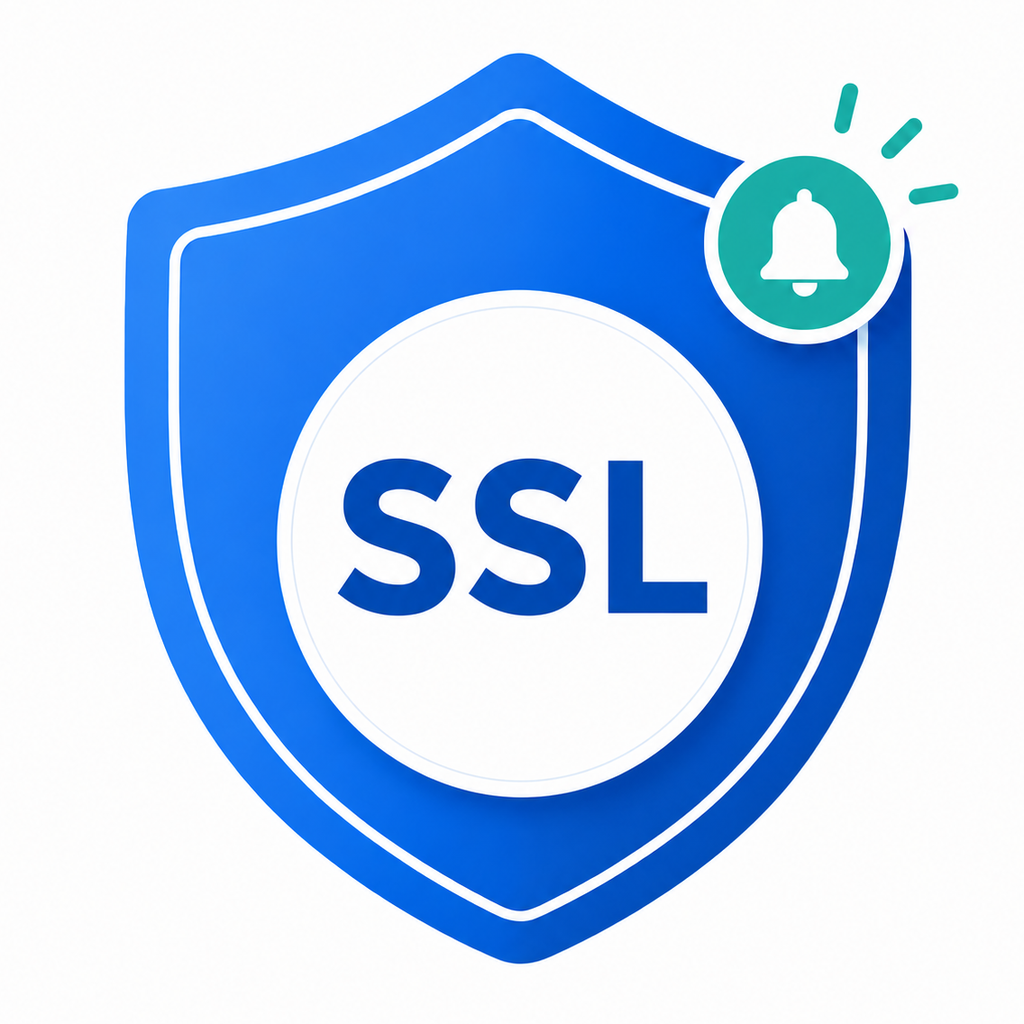
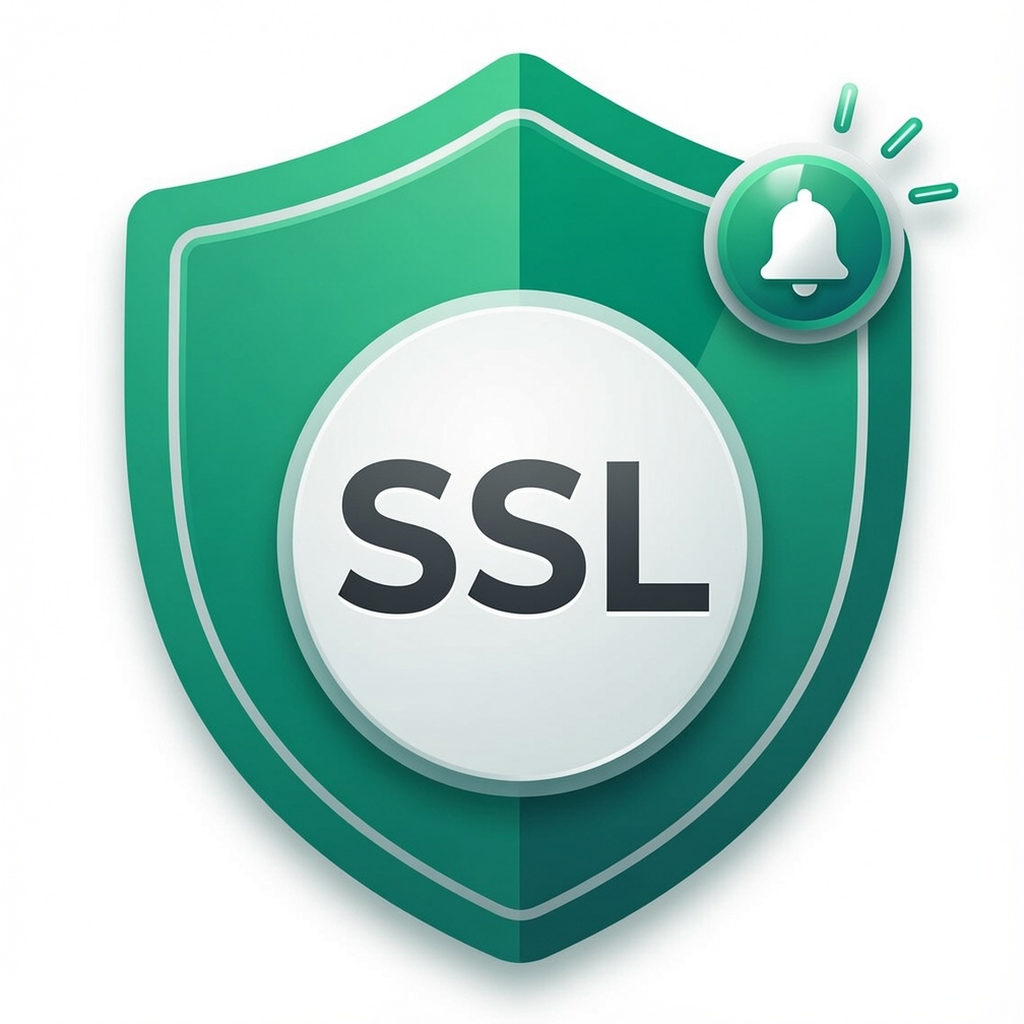
Add files via upload

diff --git a/docs/index.html b/docs/index.html
@@ -10,11 +10,11 @@
   <meta property="og:title" content="SSL Reminder - Free SSL Certificate Expiry Alerts">
   <meta property="og:description" content="Monitor up to 15 SSL certificates for free with daily cloud checks and iPhone push notifications.">
   <meta property="og:url" content="https://ssl.opshome.run/">
-  <meta property="og:image" content="https://ssl.opshome.run/assets/images/ssl-reminder-hero-transparent.png">
+  <meta property="og:image" content="https://ssl.opshome.run/assets/images/ssl-reminder-hero-0492.png">
   <meta name="twitter:card" content="summary_large_image">
   <meta name="twitter:title" content="SSL Reminder - Free SSL Certificate Expiry Alerts">
   <meta name="twitter:description" content="Daily cloud checks and iPhone push notifications for SSL certificate expiry reminders.">
-  <meta name="twitter:image" content="https://ssl.opshome.run/assets/images/ssl-reminder-hero-transparent.png">
+  <meta name="twitter:image" content="https://ssl.opshome.run/assets/images/ssl-reminder-hero-0492.png">
   <link rel="icon" href="/assets/images/app-icon.png">
   <link rel="apple-touch-icon" href="/assets/images/app-icon.png">
   <link rel="stylesheet" href="/assets/css/styles.css">
@@ -59,7 +59,7 @@
           <p class="hero-line">Simple. Private. Reliable.<span>Your SSL certificates, always under control.</span></p>
         </div>
         <figure class="hero-visual">
-          <img src="/assets/images/ssl-reminder-hero-transparent.png" width="760" height="1498" alt="SSL Reminder iPhone app showing certificate health and expiry status">
+          <img src="/assets/images/ssl-reminder-hero-0492.png" width="760" height="1498" alt="SSL Reminder iPhone app showing certificate health and expiry status">
         </figure>
       </div>
     </section>

diff --git a/docs/about/index.html b/docs/about/index.html
@@ -10,7 +10,7 @@
   <meta property="og:title" content="About SSL Reminder">
   <meta property="og:description" content="Learn about SSL Reminder and how it fits alongside OpsHome NOC.">
   <meta property="og:url" content="https://ssl.opshome.run/about/">
-  <meta property="og:image" content="https://ssl.opshome.run/assets/images/ssl-reminder-hero-transparent.png">
+  <meta property="og:image" content="https://ssl.opshome.run/assets/images/ssl-reminder-hero-0492.png">
   <meta name="twitter:card" content="summary_large_image">
   <link rel="icon" href="/assets/images/app-icon.png">
   <link rel="stylesheet" href="/assets/css/styles.css">

diff --git a/docs/privacy/index.html b/docs/privacy/index.html
@@ -10,7 +10,7 @@
   <meta property="og:title" content="Privacy Policy - SSL Reminder">
   <meta property="og:description" content="Learn what data SSL Reminder uses for cloud certificate checks and iPhone push notifications.">
   <meta property="og:url" content="https://ssl.opshome.run/privacy/">
-  <meta property="og:image" content="https://ssl.opshome.run/assets/images/ssl-reminder-hero-transparent.png">
+  <meta property="og:image" content="https://ssl.opshome.run/assets/images/ssl-reminder-hero-0492.png">
   <meta name="twitter:card" content="summary_large_image">
   <link rel="icon" href="/assets/images/app-icon.png">
   <link rel="stylesheet" href="/assets/css/styles.css">

diff --git a/docs/support/index.html b/docs/support/index.html
@@ -10,7 +10,7 @@
   <meta property="og:title" content="Support - SSL Reminder">
   <meta property="og:description" content="Need help with SSL Reminder? Contact support and learn when to use OpsHome NOC for full monitoring.">
   <meta property="og:url" content="https://ssl.opshome.run/support/">
-  <meta property="og:image" content="https://ssl.opshome.run/assets/images/ssl-reminder-hero-transparent.png">
+  <meta property="og:image" content="https://ssl.opshome.run/assets/images/ssl-reminder-hero-0492.png">
   <meta name="twitter:card" content="summary_large_image">
   <link rel="icon" href="/assets/images/app-icon.png">
   <link rel="stylesheet" href="/assets/css/styles.css">